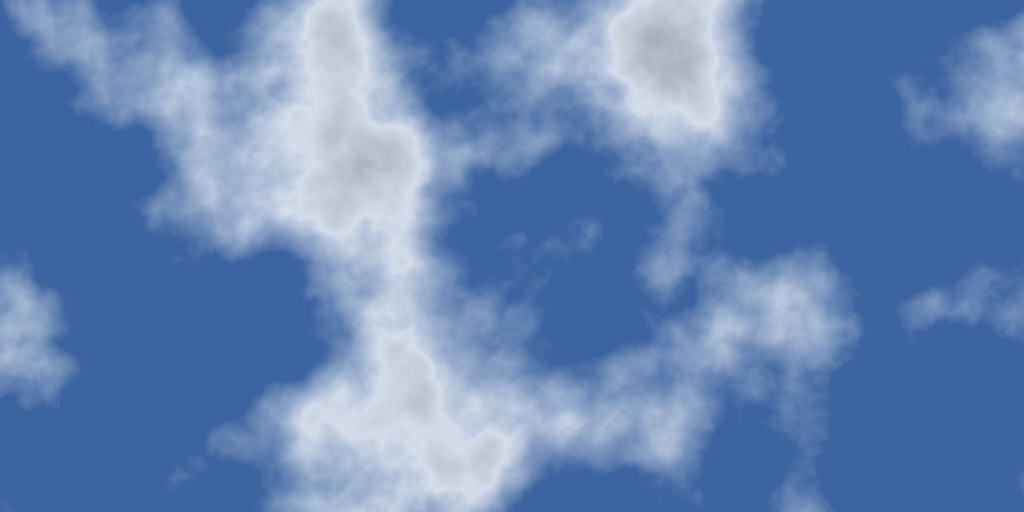
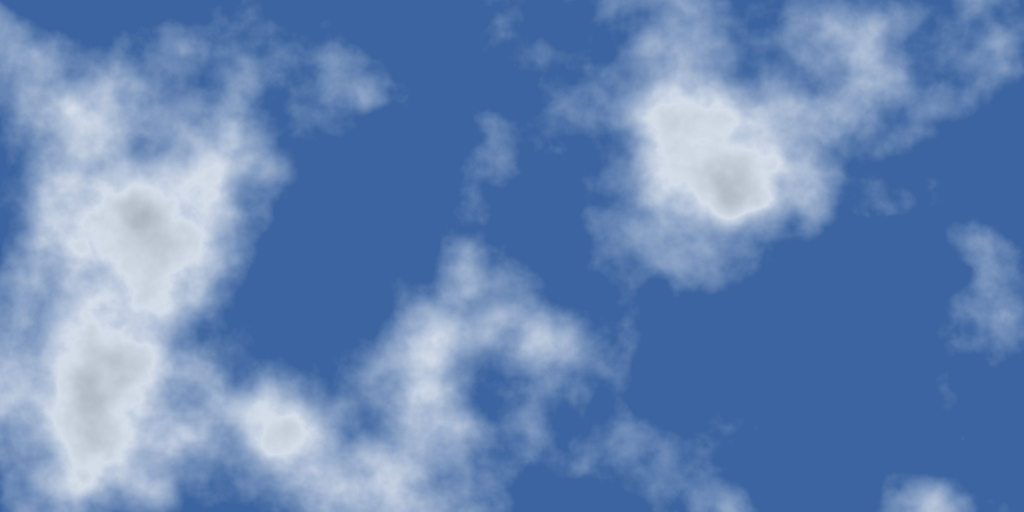
Update

diff --git a/docs/index.html b/docs/index.html
@@ -3,6 +3,6 @@
 <body>
 Today's cloud<br/>
 <img src="latest.png"/><br/>
-Latest update: Thu Feb 25 22:08:47 UTC 2021
+Latest update: Fri Feb 26 22:08:54 UTC 2021
 </body>
 </html>
